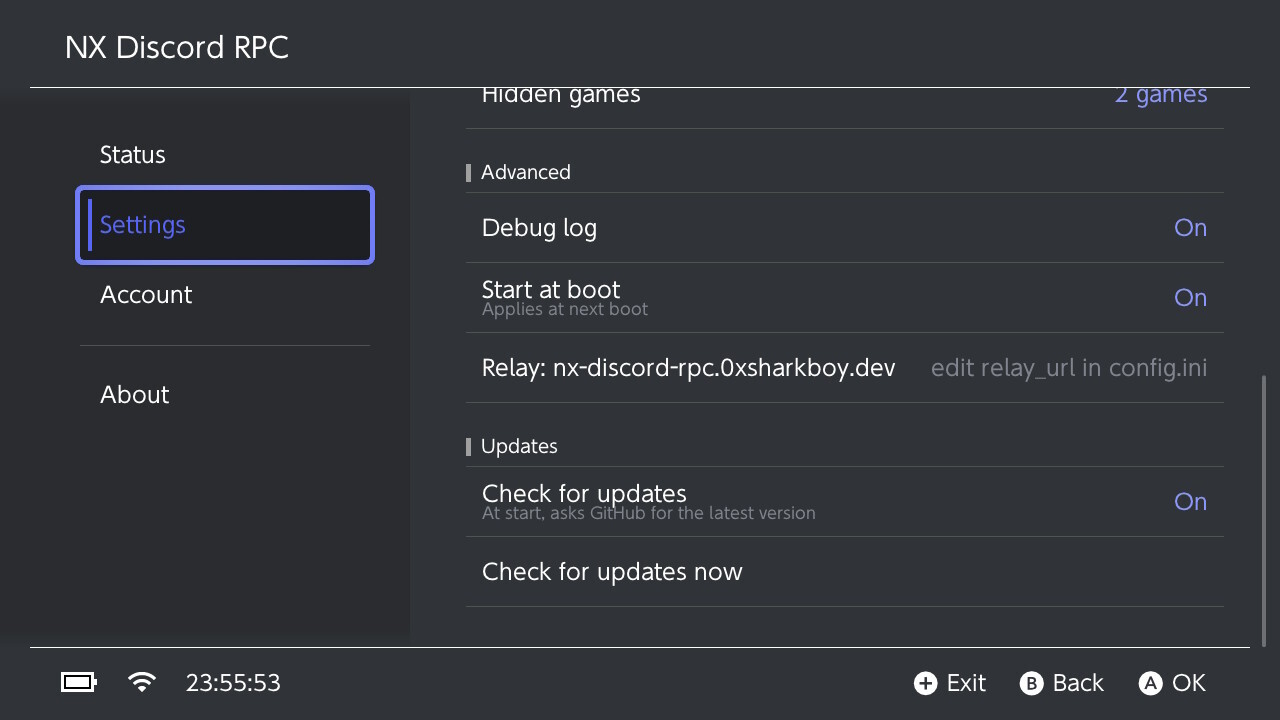
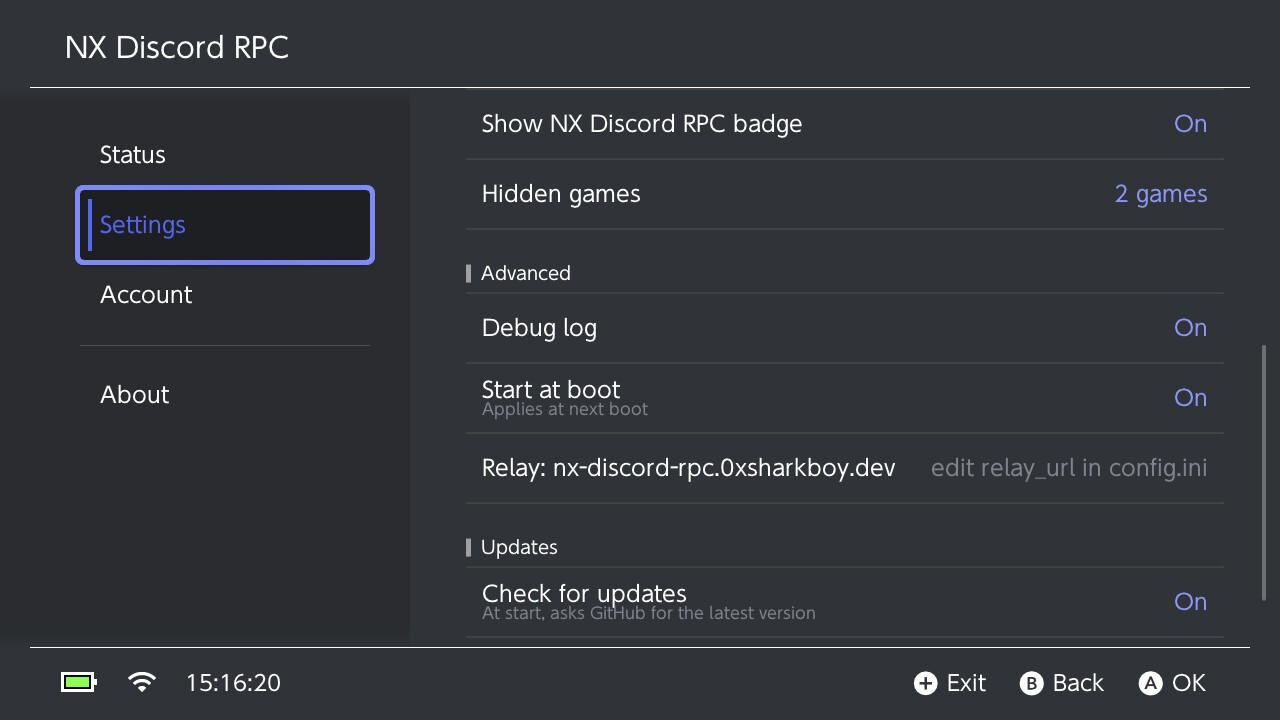
docs: v0.7.0 settings screenshots

diff --git a/README.md b/README.md
@@ -173,7 +173,7 @@ the app says so: press Start now, or restart the console.
 
 <p align="center">
   <img src="docs/images/switch/update-available.jpg" alt="Update banner in the Status tab" width="49%">
-  <img src="docs/images/switch/settings-updates.jpg" alt="Updates section of the Settings tab" width="49%">
+  <img src="docs/images/switch/settings-updates.jpg" alt="Badge, Hidden games and Updates in the Settings tab" width="49%">
 </p>
 
 Update downloads `SHA256SUMS` and the four files of the release (`exefs.nsp`, `toolbox.json`,
